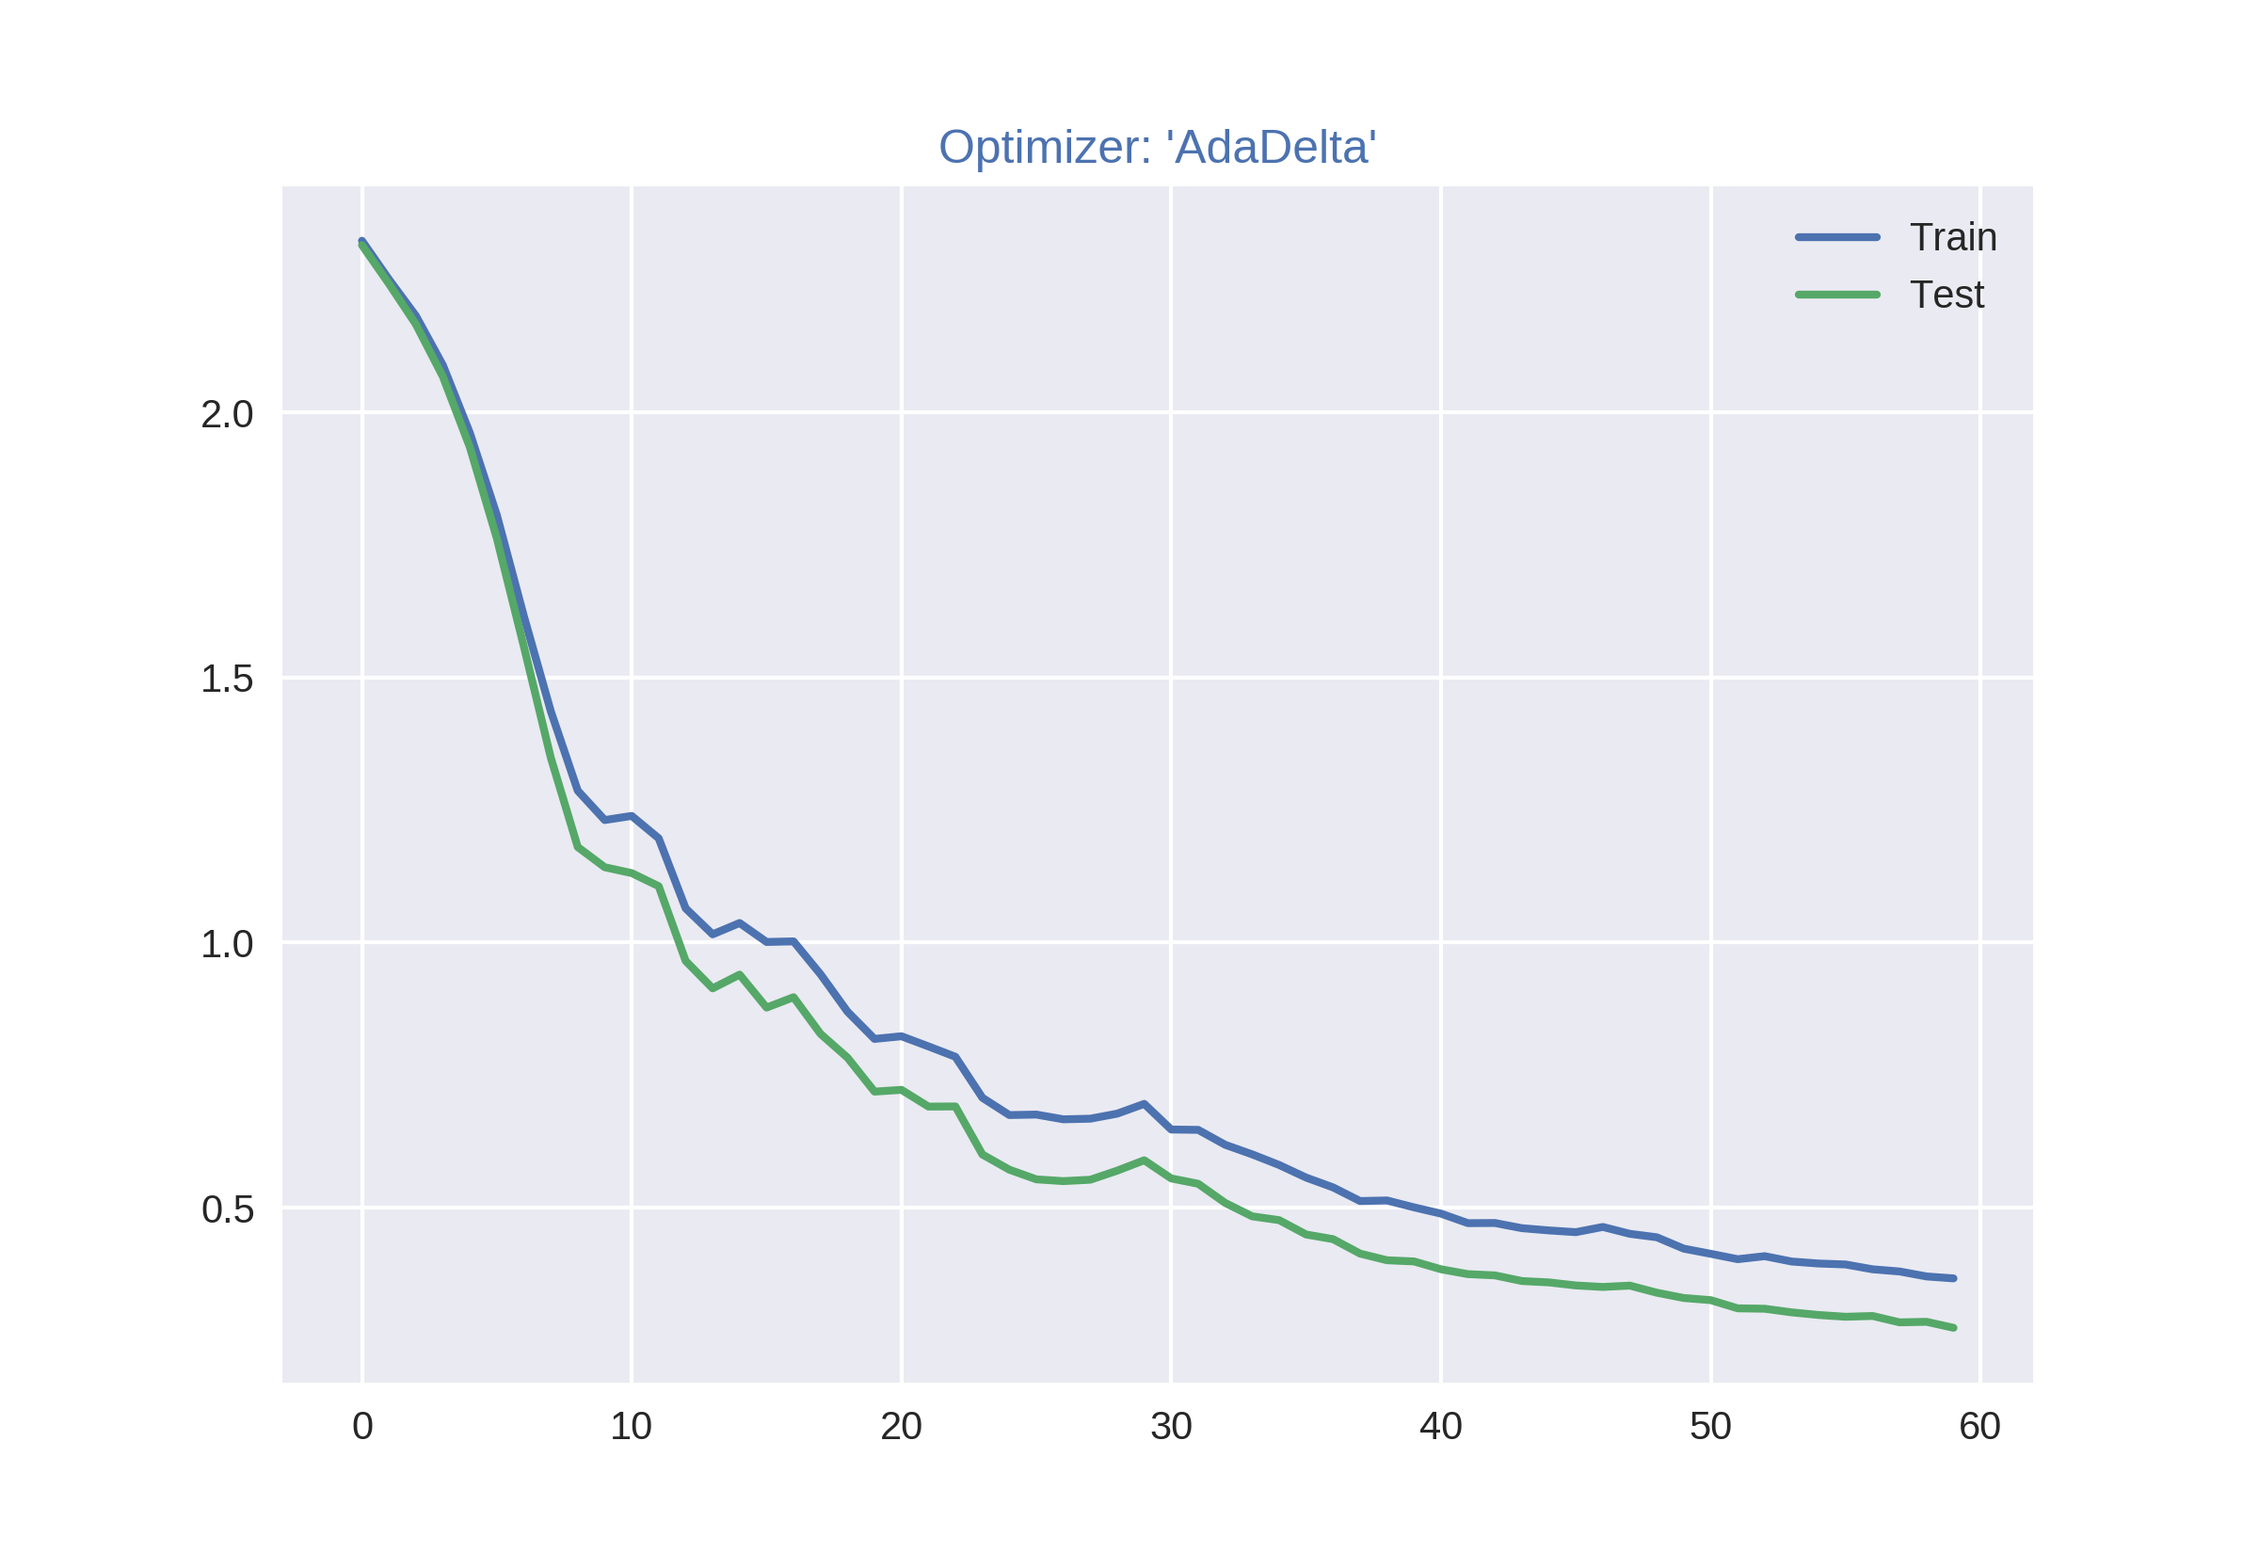
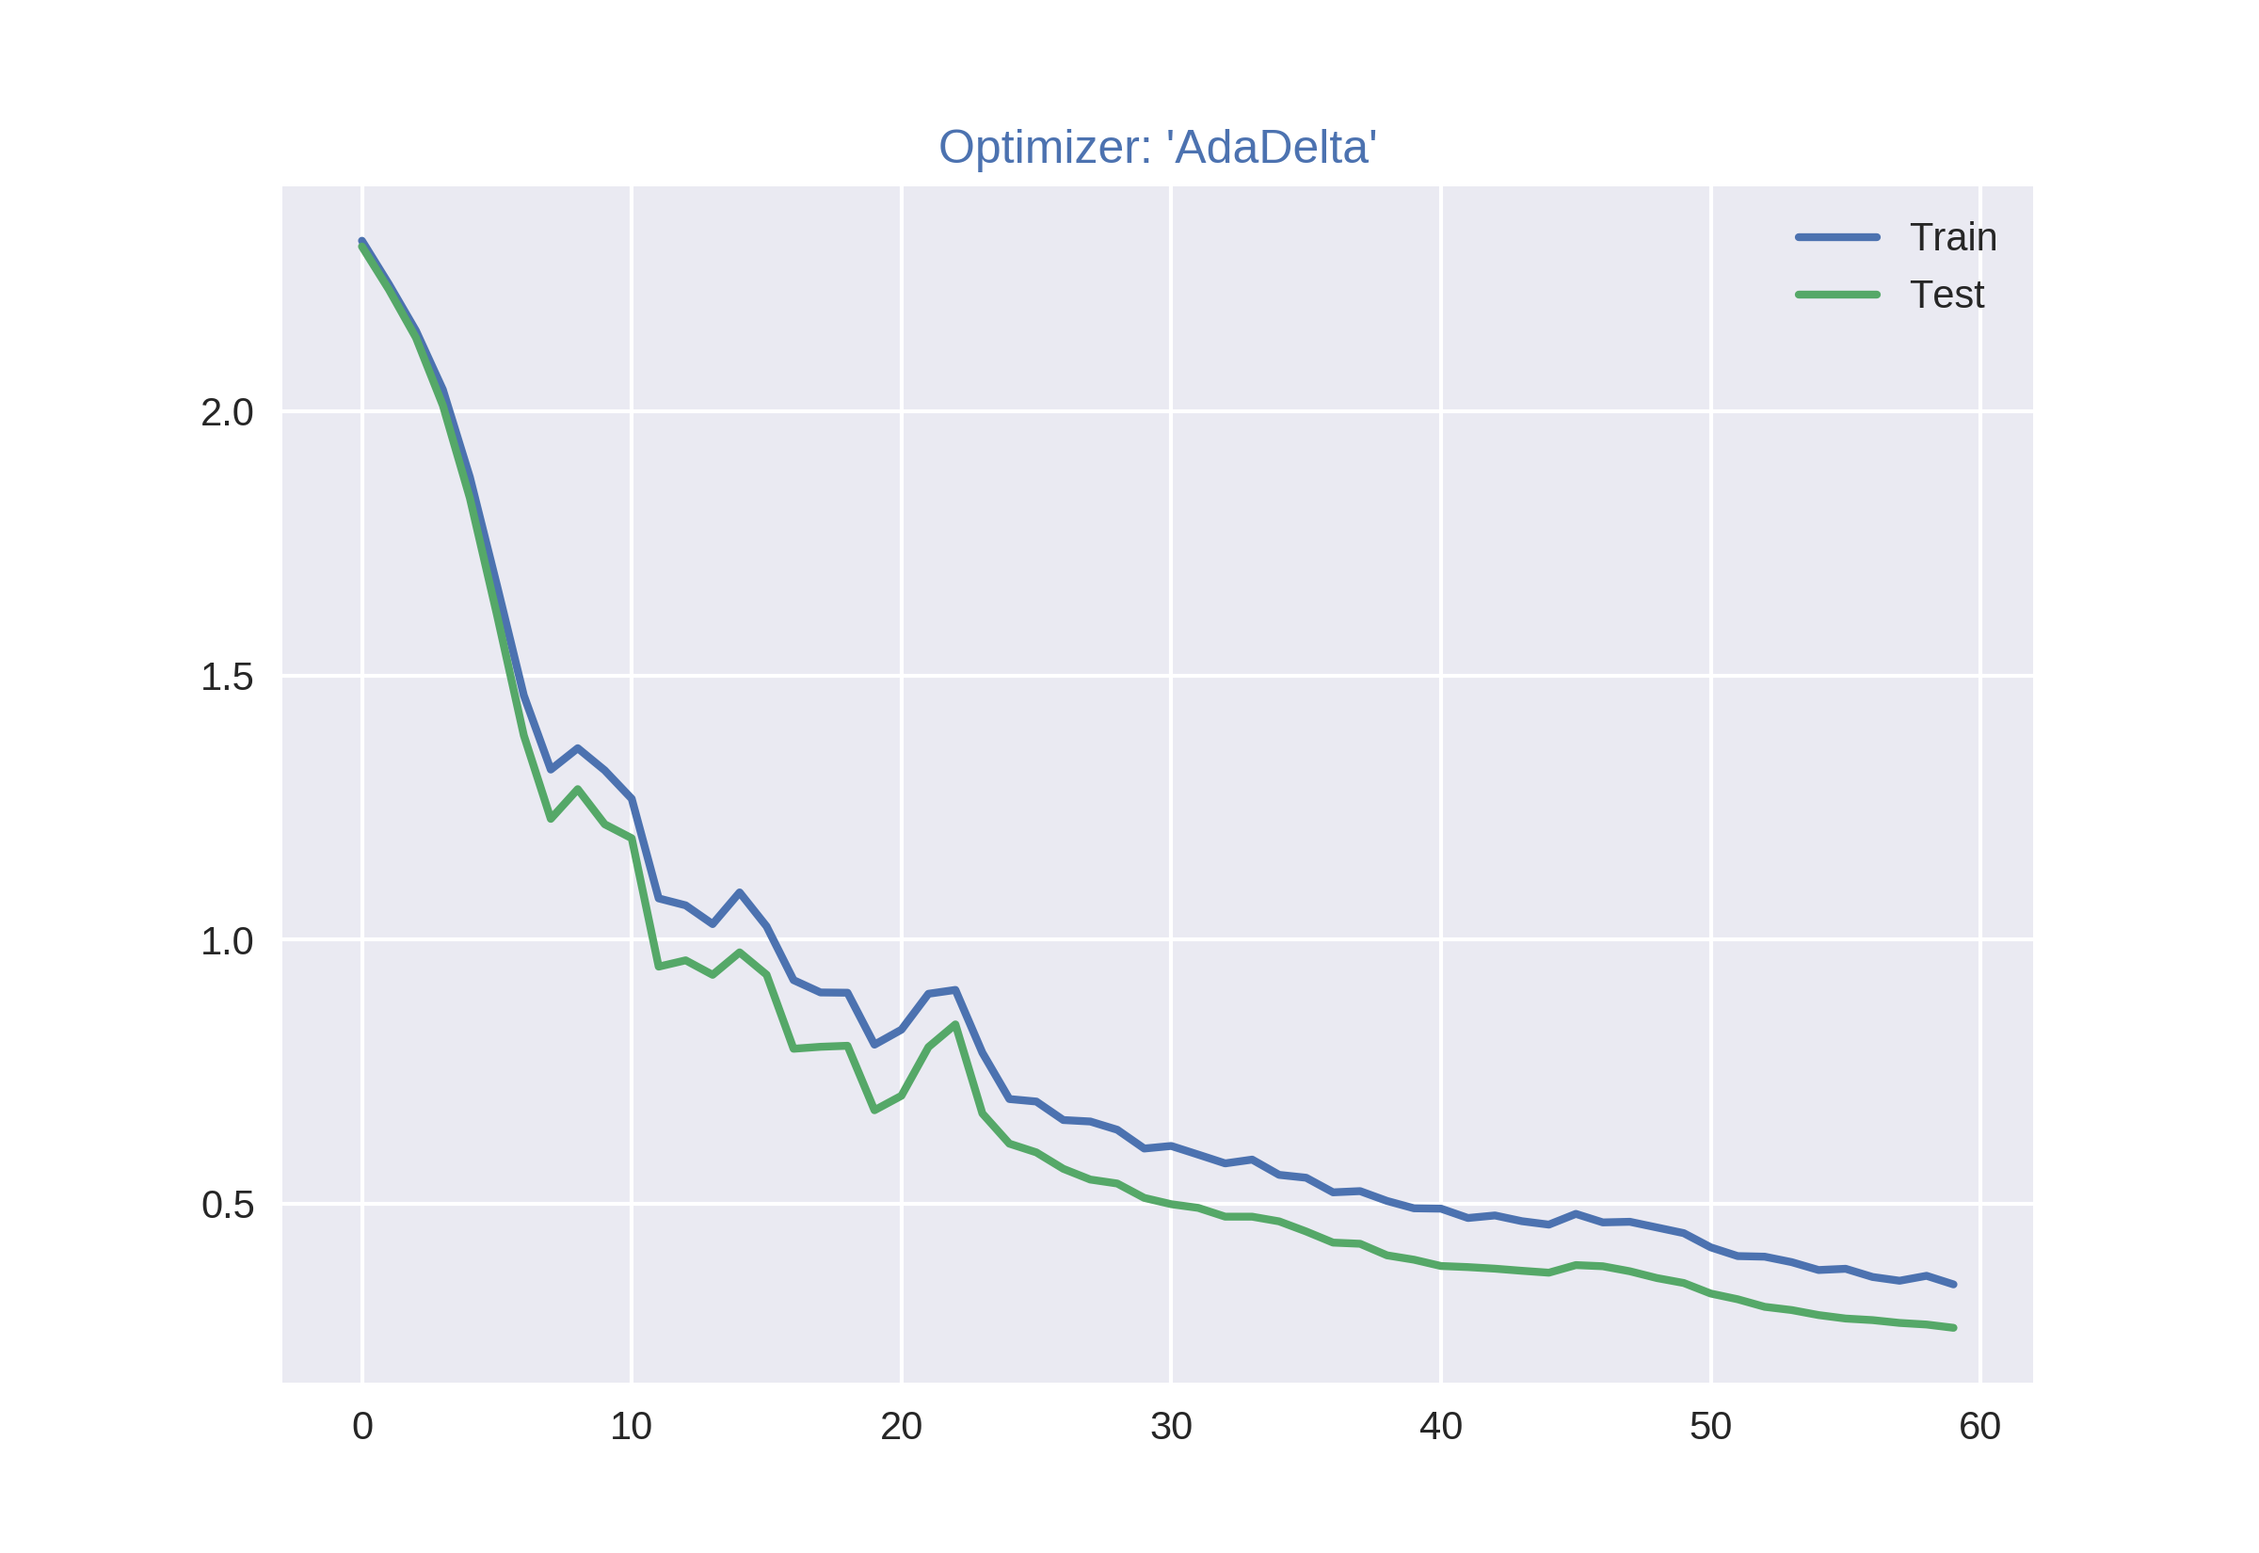
Added SdLBFGS

Changed region(s): [[0.1875, 0.2164, 0.875, 0.8655], [0.1562, 0.1545, 0.1875, 0.2164], [0.0938, 0.7727, 0.125, 0.8036]]

diff --git a/optim/lbfgs_new.py b/optim/lbfgs_new.py
@@ -1,0 +1,284 @@
+import torch
+from functools import reduce
+from torch.optim import Optimizer
+
+
+class SdLBFGS(Optimizer):
+    """PyTorch Implementation of SdLBFGS algorithm [1].
+
+    Code is adopted from LBFGS in PyTorch and modified by
+    Huidong Liu (h.d.liew@gmail.com) and Yingkai Li (yingkaili2023@u.northwestern.edu)
+
+    .. warning::
+        This optimizer doesn't support per-parameter options and parameter
+        groups (there can be only one).
+
+    .. warning::
+        Right now all parameters have to be on a single device. This will be
+        improved in the future.
+
+    .. note::
+        This is a very memory intensive optimizer (it requires additional
+        ``param_bytes * (history_size + 1)`` bytes). If it doesn't fit in memory
+        try reducing the history size, or use a different algorithm.
+
+    Arguments:
+        lr (float): learning rate (default: 1).
+        lr_decay (bool): whether to perform learning rate decay (default: True).
+        weight_decay (float): weight decay (default: 0).
+        max_iter (int): maximal number of iterations per optimization step
+            (default: 1).
+        max_eval (int): maximal number of function evaluations per optimization
+            step (default: max_iter * 1.25).
+        tolerance_grad (float): termination tolerance on first order optimality
+            (default: 1e-5).
+        tolerance_change (float): termination tolerance on function
+            value/parameter changes (default: 1e-9).
+        history_size (int): update history size (default: 100).
+
+    [1] Wang, Xiao, et al. "Stochastic quasi-Newton methods for nonconvex stochastic optimization."
+    SIAM Journal on Optimization 27.2 (2017): 927-956.
+    """
+
+    def __init__(self, params, lr=1, lr_decay=True, weight_decay=0, max_iter=1, max_eval=None,
+                 tolerance_grad=1e-5, tolerance_change=1e-9, history_size=100,
+                 line_search_fn=None):
+        if max_eval is None:
+            max_eval = max_iter * 5 // 4
+        defaults = dict(lr=lr, lr_decay=lr_decay, weight_decay=weight_decay, max_iter=max_iter,
+                        max_eval=max_eval,
+                        tolerance_grad=tolerance_grad, tolerance_change=tolerance_change,
+                        history_size=history_size, line_search_fn=line_search_fn)
+        super(SdLBFGS, self).__init__(params, defaults)
+
+        if len(self.param_groups) != 1:
+            raise ValueError("SdLBFGS doesn't support per-parameter options "
+                             "(parameter groups)")
+
+        self._params = self.param_groups[0]['params']
+        self._numel_cache = None
+
+    def _numel(self):
+        if self._numel_cache is None:
+            self._numel_cache = reduce(lambda total, p: total + p.numel(), self._params, 0)
+        return self._numel_cache
+
+    def _gather_flat_grad(self):
+        views = []
+        for p in self._params:
+            if p.grad is None:
+                view = p.data.new(p.data.numel()).zero_()
+            elif p.grad.data.is_sparse:
+                view = p.grad.data.to_dense().view(-1)
+            else:
+                view = p.grad.data.view(-1)
+            views.append(view)
+        return torch.cat(views, 0)
+
+    def _add_grad(self, step_size, update):
+        offset = 0
+        for p in self._params:
+            numel = p.numel()
+            # view as to avoid deprecated pointwise semantics
+            p.data.add_(step_size, update[offset:offset + numel].view_as(p.data))
+            offset += numel
+        assert offset == self._numel()
+
+    def _add_weight_decay(self, weight_decay, update):
+        offset = 0
+        for p in self._params:
+            numel = p.numel()
+            update[offset:offset + numel].add_(weight_decay, p.data.view(-1))
+            offset += numel
+        return update
+
+    def step(self, closure):
+        """Performs a single optimization step.
+
+        Arguments:
+            closure (callable): A closure that reevaluates the model
+                and returns the loss.
+        """
+        assert len(self.param_groups) == 1
+
+        group = self.param_groups[0]
+        lr = group['lr']
+        lr_decay = group['lr_decay']
+        weight_decay = group['weight_decay']
+        max_iter = group['max_iter']
+        max_eval = group['max_eval']
+        tolerance_grad = group['tolerance_grad']
+        tolerance_change = group['tolerance_change']
+        line_search_fn = group['line_search_fn']
+        history_size = group['history_size']
+
+        state = self.state['global_state']
+        state.setdefault('func_evals', 0)
+        state.setdefault('n_iter', 0)
+
+        # evaluate initial f(x) and df/dx
+        orig_loss = closure()
+        loss = orig_loss.item()
+        current_evals = 1
+        state['func_evals'] += 1
+
+        flat_grad = self._gather_flat_grad()
+        abs_grad_sum = flat_grad.abs().sum()
+
+        if abs_grad_sum <= tolerance_grad:
+            return loss
+
+        # variables cached in state (for tracing)
+        d = state.get('d')
+        t = state.get('t')
+        old_dirs = state.get('old_dirs')
+        old_stps = state.get('old_stps')
+        H_diag = state.get('H_diag')
+        prev_flat_grad = state.get('prev_flat_grad')
+        prev_loss = state.get('prev_loss')
+
+        n_iter = 0
+        # optimize for a max of max_iter iterations
+        while n_iter < max_iter:
+            # keep track of nb of iterations
+            n_iter += 1
+            state['n_iter'] += 1
+
+            ############################################################
+            # compute gradient descent direction
+            ############################################################
+            if state['n_iter'] == 1:
+                d = flat_grad.neg()
+                old_dirs = []
+                old_stps = []
+                H_diag = 1
+            else:
+                # do Sdlbfgs update (update memory)
+                y = flat_grad.sub(prev_flat_grad)
+                s = d.mul(t)
+                ys = y.dot(s)  # y*s
+
+                # update scale of initial Hessian approximation
+                gamma = 1
+                H_diag = 1 / gamma
+                sT_H_inv_s = gamma * s.dot(s)
+
+                if ys < 0.25 * sT_H_inv_s:
+                    theta = 0.75 * sT_H_inv_s / (sT_H_inv_s - ys)
+                else:
+                    theta = 1
+                y_bar = theta * y + (1 - theta) * gamma * s
+
+                # updating memory
+                if len(old_dirs) == history_size:
+                    # shift history by one (limited-memory)
+                    old_dirs.pop(0)
+                    old_stps.pop(0)
+
+                # store new direction/step
+                old_dirs.append(s)
+                old_stps.append(y_bar)
+
+                # compute the approximate (SdL-BFGS) inverse Hessian
+                # multiplied by the gradient
+                num_old = len(old_dirs)
+
+                if 'ro' not in state:
+                    state['ro'] = [None] * history_size
+                    state['al'] = [None] * history_size
+                ro = state['ro']
+                al = state['al']
+
+                for i in range(num_old):
+                    ro[i] = 1. / old_stps[i].dot(old_dirs[i])
+
+                # iteration in SdL-BFGS loop collapsed to use just one buffer
+                q = flat_grad.neg()
+                for i in range(num_old - 1, -1, -1):
+                    al[i] = old_dirs[i].dot(q) * ro[i]
+                    q.add_(-al[i], old_stps[i])
+
+                # multiply by initial Hessian
+                # r/d is the final direction
+                d = r = torch.mul(q, H_diag)
+                for i in range(num_old):
+                    be_i = old_stps[i].dot(r) * ro[i]
+                    r.add_(al[i] - be_i, old_dirs[i])
+
+            if prev_flat_grad is None:
+                prev_flat_grad = flat_grad.clone()
+            else:
+                prev_flat_grad.copy_(flat_grad)
+            prev_loss = loss
+
+            ############################################################
+            # compute step size
+            ############################################################
+            # reset initial guess for step size
+            if weight_decay > 0:
+                d = self._add_weight_decay(weight_decay, d)
+
+            d = d / d.norm()
+
+            if lr_decay:
+                t = lr / (state['n_iter'] ** 0.5)
+            else:
+                if state['n_iter'] == 1:
+                    t = min(1., 1. / abs_grad_sum) * lr
+                else:
+                    t = lr
+
+            # directional derivative
+            gtd = flat_grad.dot(d)  # g * d
+
+            # optional line search: user function
+            ls_func_evals = 0
+            if line_search_fn is not None:
+                # perform line search, using user function
+                raise RuntimeError("line search function is not supported yet")
+            else:
+                # no line search, simply move with fixed-step
+                self._add_grad(t, d)
+                if n_iter != max_iter:
+                    # re-evaluate function only if not in last iteration
+                    # the reason we do this: in a stochastic setting,
+                    # no use to re-evaluate that function here
+                    loss = closure().item()
+                    flat_grad = self._gather_flat_grad()
+                    abs_grad_sum = flat_grad.abs().sum()
+                    ls_func_evals = 1
+
+            # update func eval
+            current_evals += ls_func_evals
+            state['func_evals'] += ls_func_evals
+
+            ############################################################
+            # check conditions
+            ############################################################
+            if n_iter == max_iter:
+                break
+
+            if current_evals >= max_eval:
+                break
+
+            if abs_grad_sum <= tolerance_grad:
+                break
+
+            if gtd > -tolerance_change:
+                break
+
+            if d.mul(t).abs_().sum() <= tolerance_change:
+                break
+
+            if abs(loss - prev_loss) < tolerance_change:
+                break
+
+        state['d'] = d
+        state['t'] = t
+        state['old_dirs'] = old_dirs
+        state['old_stps'] = old_stps
+        state['H_diag'] = H_diag
+        state['prev_flat_grad'] = prev_flat_grad
+        state['prev_loss'] = prev_loss
+
+        return orig_loss

diff --git a/1_mnist.py b/1_mnist.py
@@ -9,6 +9,8 @@ import torch
 import torch.nn.functional as F
 from torchvision import datasets, transforms
 
+from optim.lbfgs_new import SdLBFGS
+
 # Command line options
 parser = OptionParser()
 
@@ -100,7 +102,7 @@ lossDict = {}
 
 # Iterate over the different optimizers
 # for optimizer in [("SGD", optimizerSGD), ("AdaDelta", optimizerAdadelta), ("Adam", optimizerAdam)]:
-for optimizer in ["LBFGS", "SGD", "AdaDelta", "Adam"]:
+for optimizer in ["Updated LBFGS", "LBFGS", "SGD", "AdaDelta", "Adam"]:
 	print ("Selected optimizer: %s" % optimizer)
 	lossDict[optimizer] = {"train" : [], "test": []}
 
@@ -117,8 +119,11 @@ for optimizer in ["LBFGS", "SGD", "AdaDelta", "Adam"]:
 		optim = torch.optim.SGD(model.parameters(), lr=1e-1)
 	elif optimizer == "AdaDelta":
 		optim = torch.optim.Adadelta(model.parameters(), lr=3e-1)
-	elif optimizer == "LBFGS":
-		optim = torch.optim.LBFGS(model.parameters(), lr=1e-5)
+	elif optimizer == "LBFGS" or optimizer == "Updated LBFGS":
+		if optimizer == "Updated LBFGS":
+			optim = SdLBFGS(model.parameters(), lr=1.0)
+		else:
+			optim = torch.optim.LBFGS(model.parameters(), lr=1e-5)
 
 		# Specifically used for LBFGS
 		def closure():
@@ -146,16 +151,7 @@ for optimizer in ["LBFGS", "SGD", "AdaDelta", "Adam"]:
 			with torch.no_grad():
 				data, target = torch.autograd.Variable(data), torch.autograd.Variable(target)
 
-			if optimizer != "LBFGS":
-				optim.zero_grad()
-				output = model(data)
-				# loss = F.nll_loss(output, target)
-				currentLoss = loss(output, target)
-				lossTrain = currentLoss.item()
-				currentLoss.backward()
-				optim.step()
-
-			else:
+			if optimizer == "LBFGS" or optimizer == "Updated LBFGS":
 				optim.step(closure)
 				# current_params = parameters_to_vector(model.parameters())
 				# if any(np.isnan(current_params.data.cpu().numpy())):
@@ -165,6 +161,15 @@ for optimizer in ["LBFGS", "SGD", "AdaDelta", "Adam"]:
 				output = model(data)
 				currentLoss = loss(output, target)
 				lossTrain = currentLoss.item()
+
+			else:
+				optim.zero_grad()
+				output = model(data)
+				# loss = F.nll_loss(output, target)
+				currentLoss = loss(output, target)
+				lossTrain = currentLoss.item()
+				currentLoss.backward()
+				optim.step()				
 
 			print ("Epoch: %d | Step: %d | Train Loss: %f | Test Loss: %f" % (epoch, step, lossTrain, lossTest))
 			lossDict[optimizer]["train"].append(lossTrain)

diff --git a/optim/README.md b/optim/README.md
@@ -1,0 +1,5 @@
+# Stochastic Damped LBFGS
+
+This code has been imported from the following repository:
+https://github.com/harryliew/SdLBFGS
+
